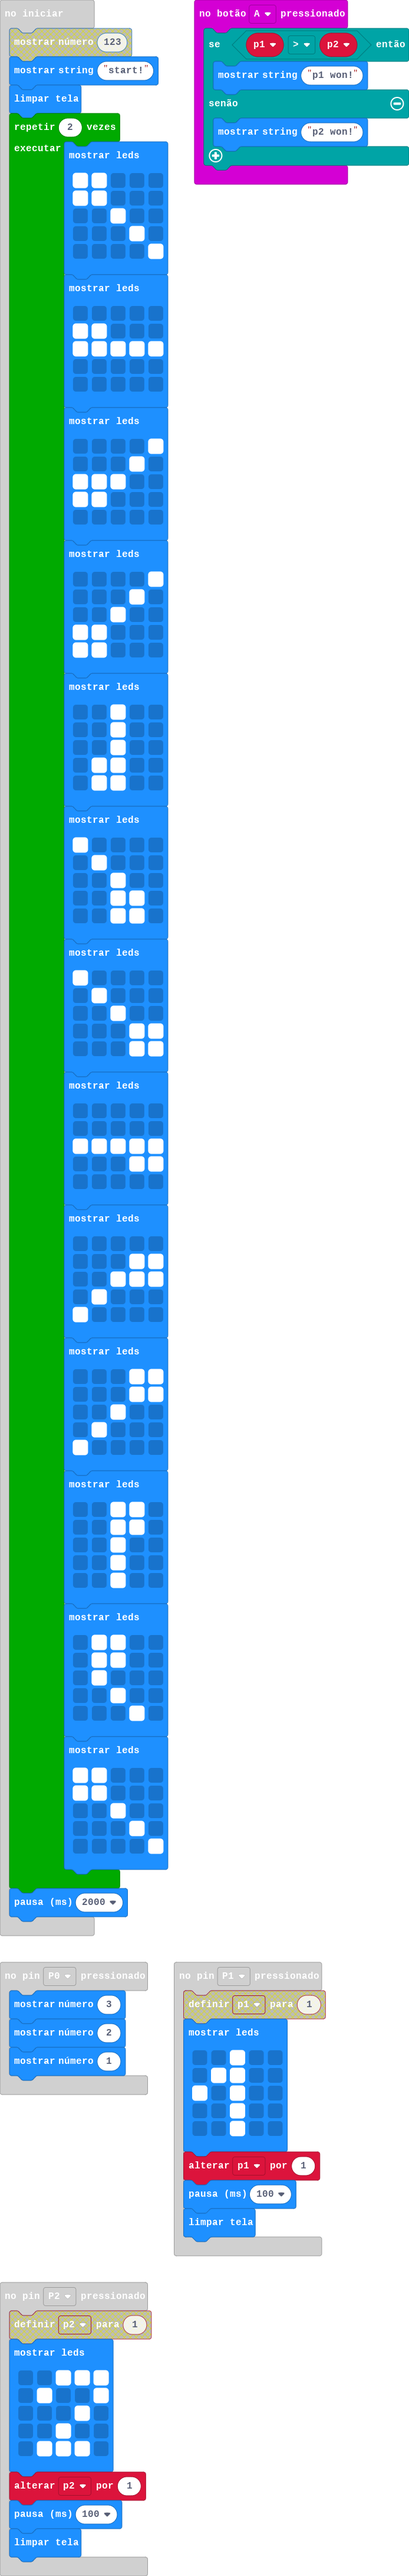
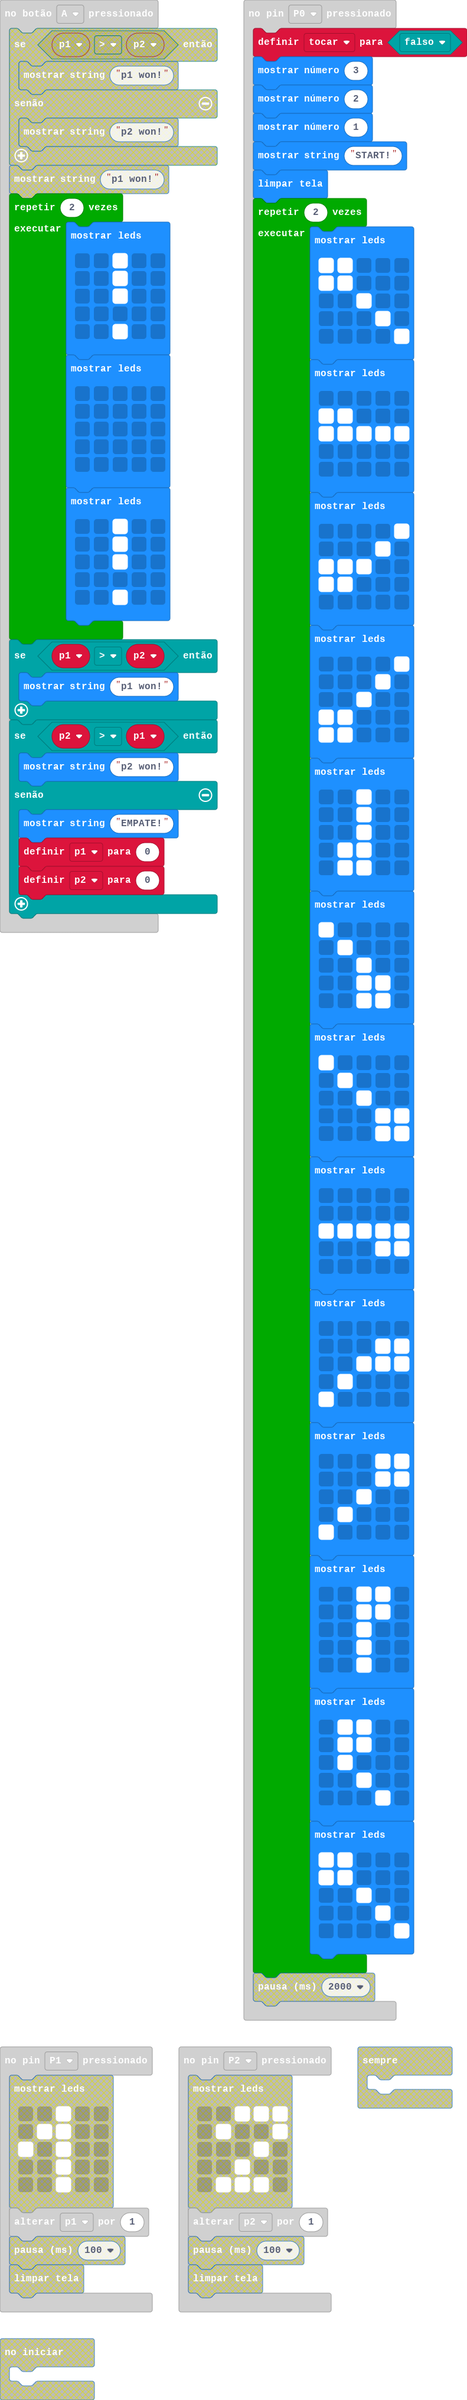
Atualizar 'main.blocks, main.ts'

diff --git a/main.ts b/main.ts
@@ -1,10 +1,12 @@
+let tocar = false
 let p1 = 0
 let p2 = 0
 input.onPinPressed(TouchPin.P0, function () {
+    tocar = false
     basic.showNumber(3)
     basic.showNumber(2)
     basic.showNumber(1)
-    basic.showString("start!")
+    basic.showString("START!")
     basic.clearScreen()
     for (let index = 0; index < 2; index++) {
         basic.showLeds(`
@@ -99,39 +101,45 @@ input.onPinPressed(TouchPin.P0, function () {
             . . . . #
             `)
     }
-    basic.pause(2000)
 })
 input.onButtonPressed(Button.A, function () {
+    for (let index = 0; index < 2; index++) {
+        basic.showLeds(`
+            . . # . .
+            . . # . .
+            . . # . .
+            . . . . .
+            . . # . .
+            `)
+        basic.showLeds(`
+            . . . . .
+            . . . . .
+            . . . . .
+            . . . . .
+            . . . . .
+            `)
+        basic.showLeds(`
+            . . # . .
+            . . # . .
+            . . # . .
+            . . . . .
+            . . # . .
+            `)
+    }
     if (p1 > p2) {
         basic.showString("p1 won!")
-    } else {
+    }
+    if (p2 > p1) {
         basic.showString("p2 won!")
+    } else {
+        basic.showString("EMPATE!")
+        p1 = 0
+        p2 = 0
     }
 })
 input.onPinPressed(TouchPin.P2, function () {
-    basic.showLeds(`
-        . . # # #
-        . # . . #
-        . . . # .
-        . . # . .
-        . # # # .
-        `)
     p2 += 1
-    basic.pause(100)
-    basic.clearScreen()
 })
 input.onPinPressed(TouchPin.P1, function () {
-    basic.showLeds(`
-        . . # . .
-        . # # . .
-        # . # . .
-        . . # . .
-        . . # . .
-        `)
     p1 += 1
-    basic.pause(100)
-    basic.clearScreen()
-})
-basic.forever(function () {
-	
 })
